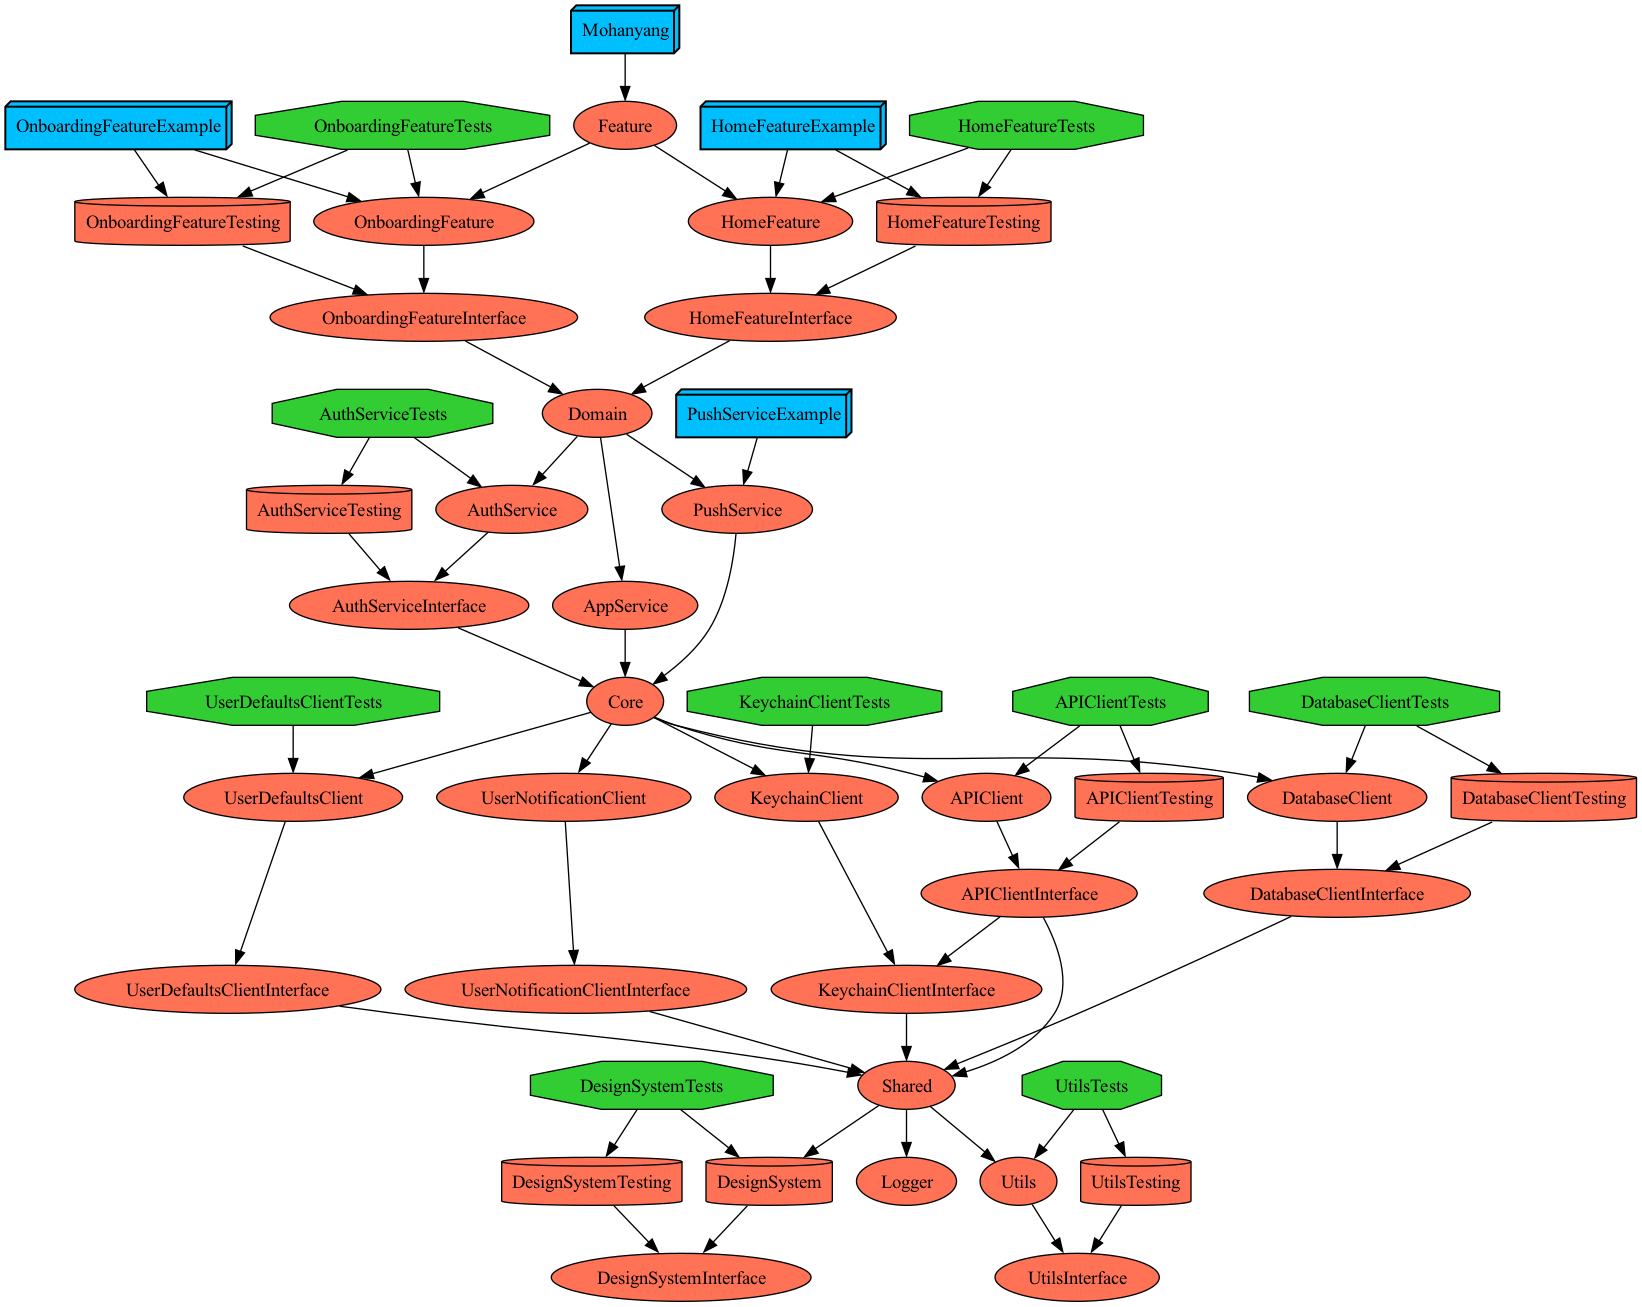
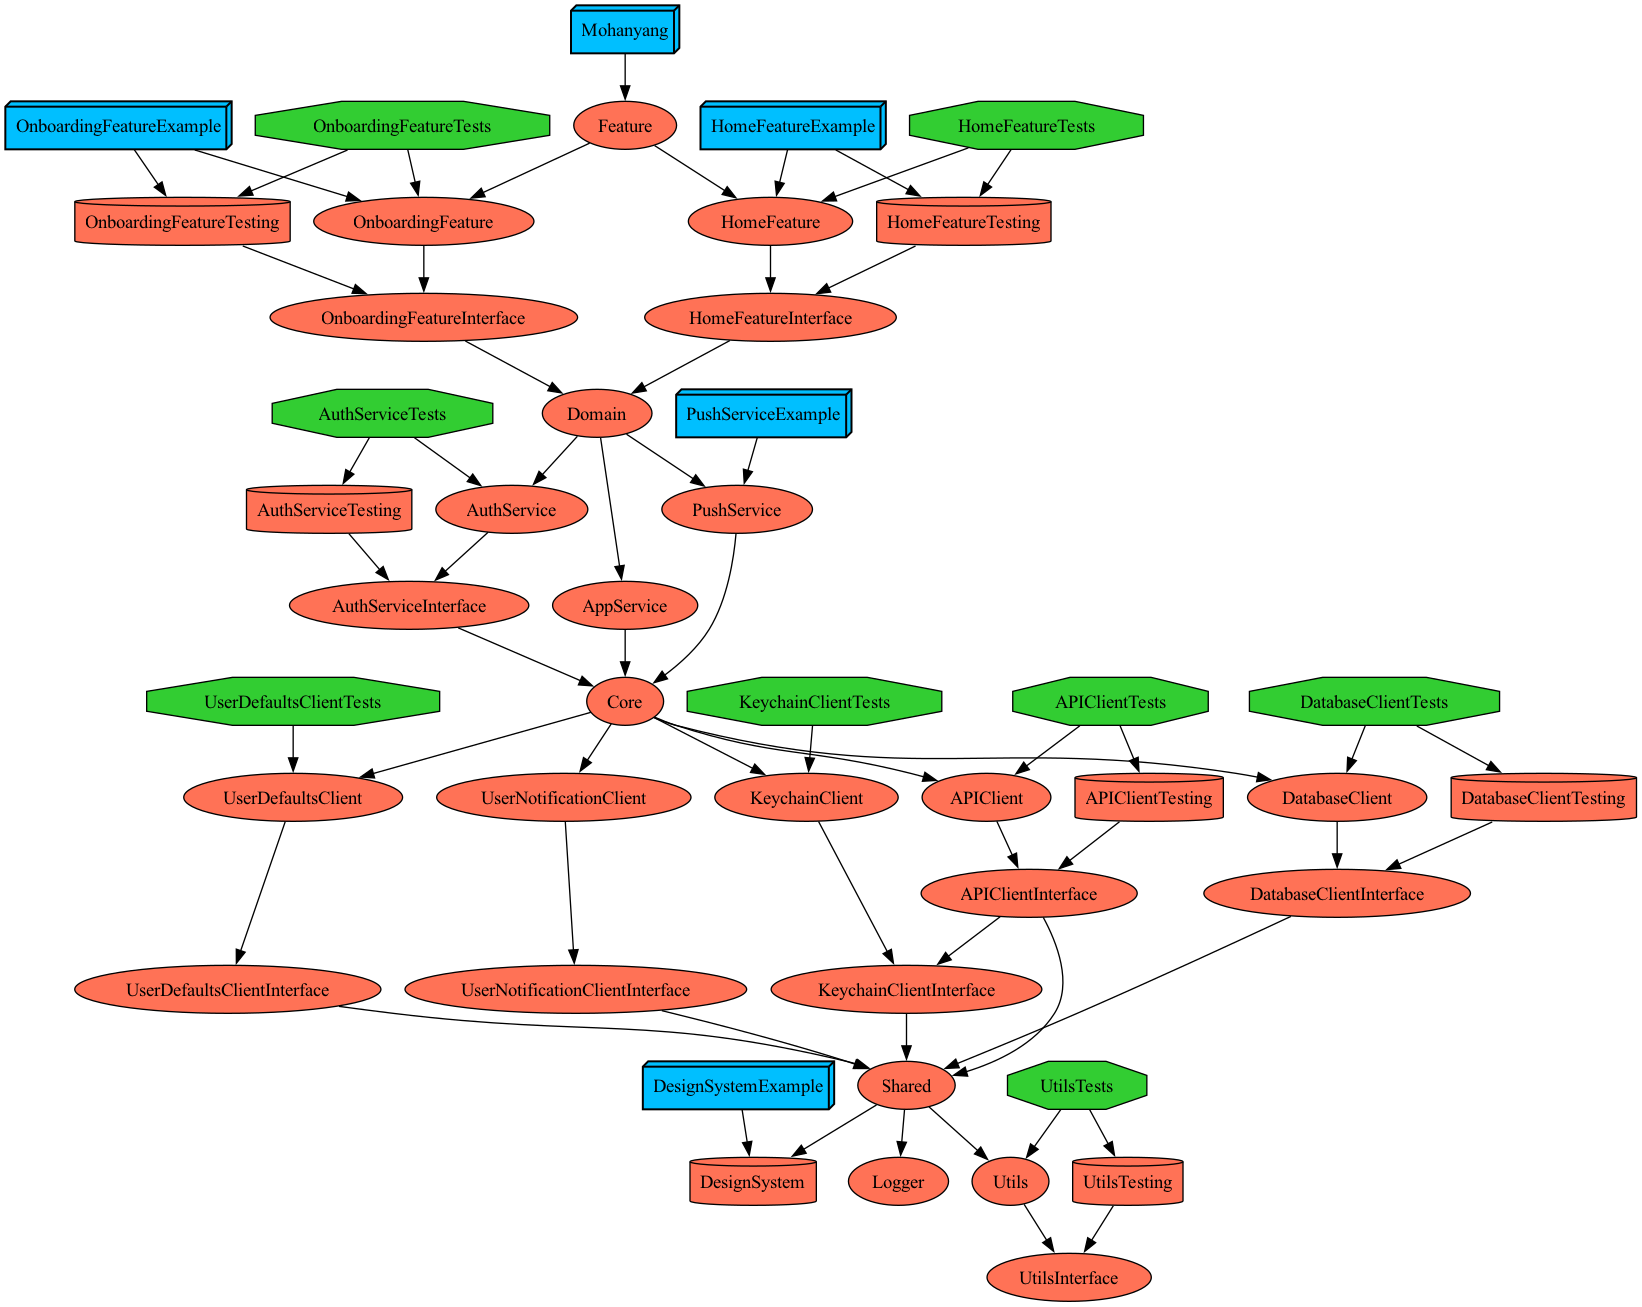
delete: 불필요 모듈 제거

diff --git a/Projects/Shared/DesignSystem/Project.swift b/Projects/Shared/DesignSystem/Project.swift
@@ -20,8 +20,6 @@ let project: Project = .makeTMABasedProject(
   scripts: [],
   targets: [
     .sources,
-    .tests,
-    .testing,
     .example
   ],
   dependencies: [:],

diff --git a/Projects/Shared/Shared/Sources/Exports.swift b/Projects/Shared/Shared/Sources/Exports.swift
@@ -8,7 +8,6 @@
 
 @_exported import Logger
 @_exported import DesignSystem
-@_exported import DesignSystemInterface
 @_exported import Utils
 @_exported import UtilsInterface
 
